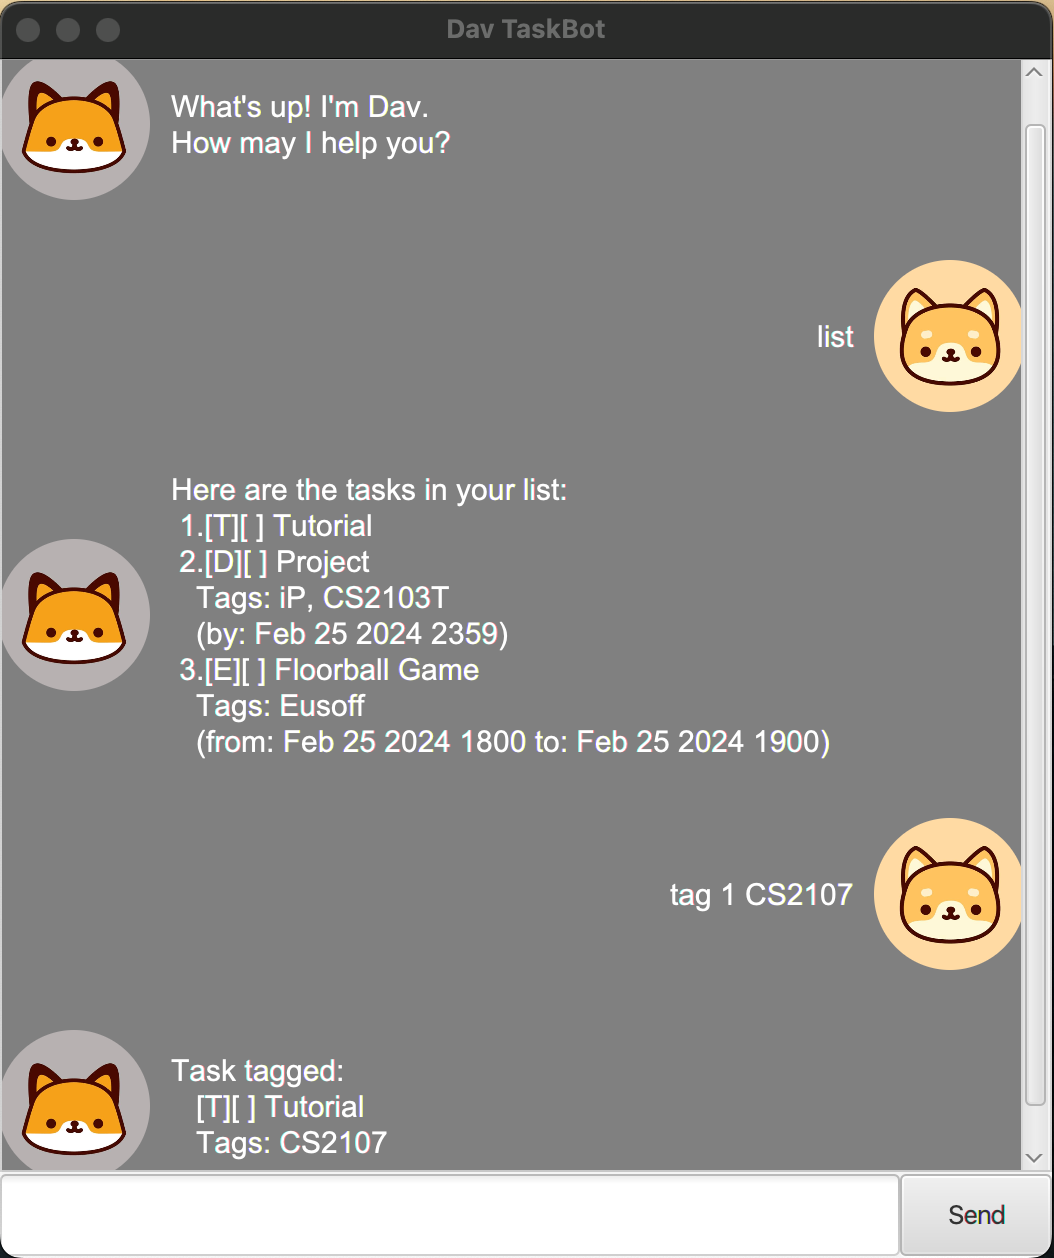
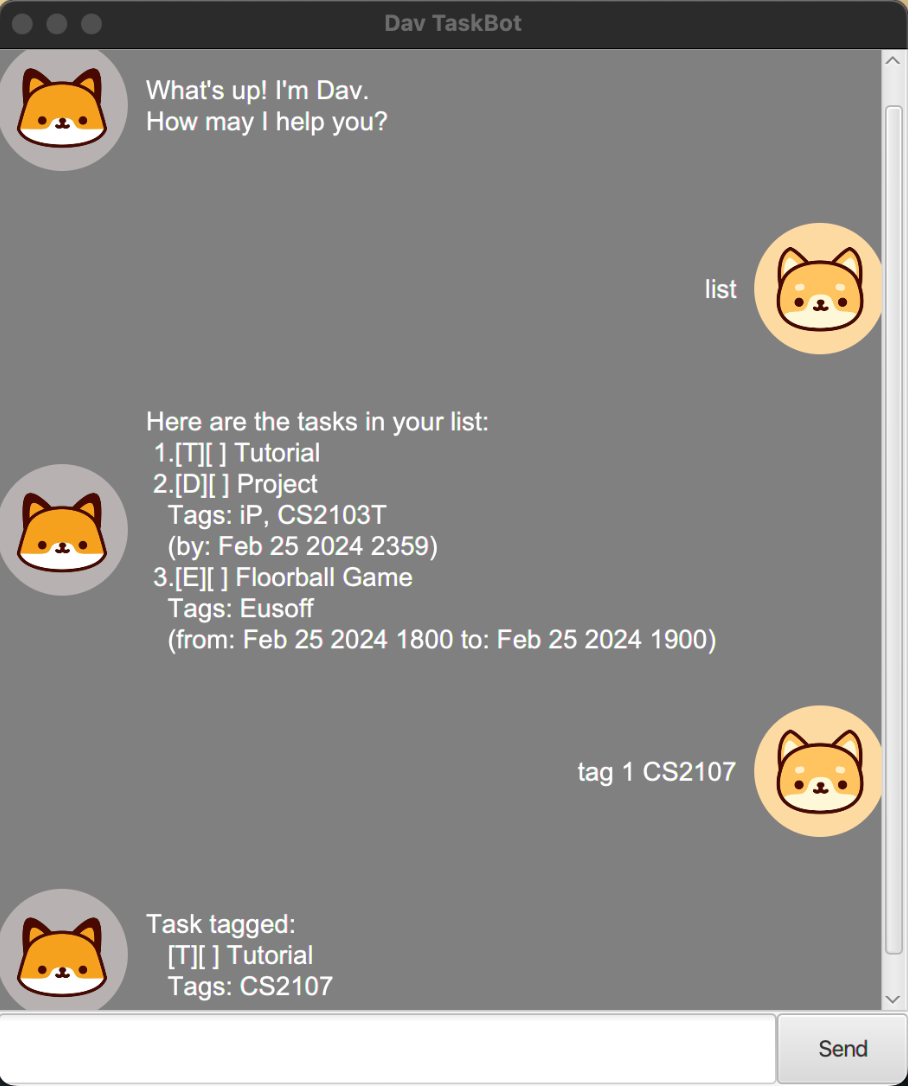
Improved ReadMe and Ui screenshot.

diff --git a/docs/README.md b/docs/README.md
@@ -1,6 +1,7 @@
 # Dav User Guide
 
-![Dav TaskBot Interface](/docs/Ui.png)
+**Dav TaskBot Interface**
+![Dav TaskBot Interface](Ui.png)
 
 Dav Taskbot is designed to help you manage your tasks. 
 It's an interactive and user-friendly tool that can help 
